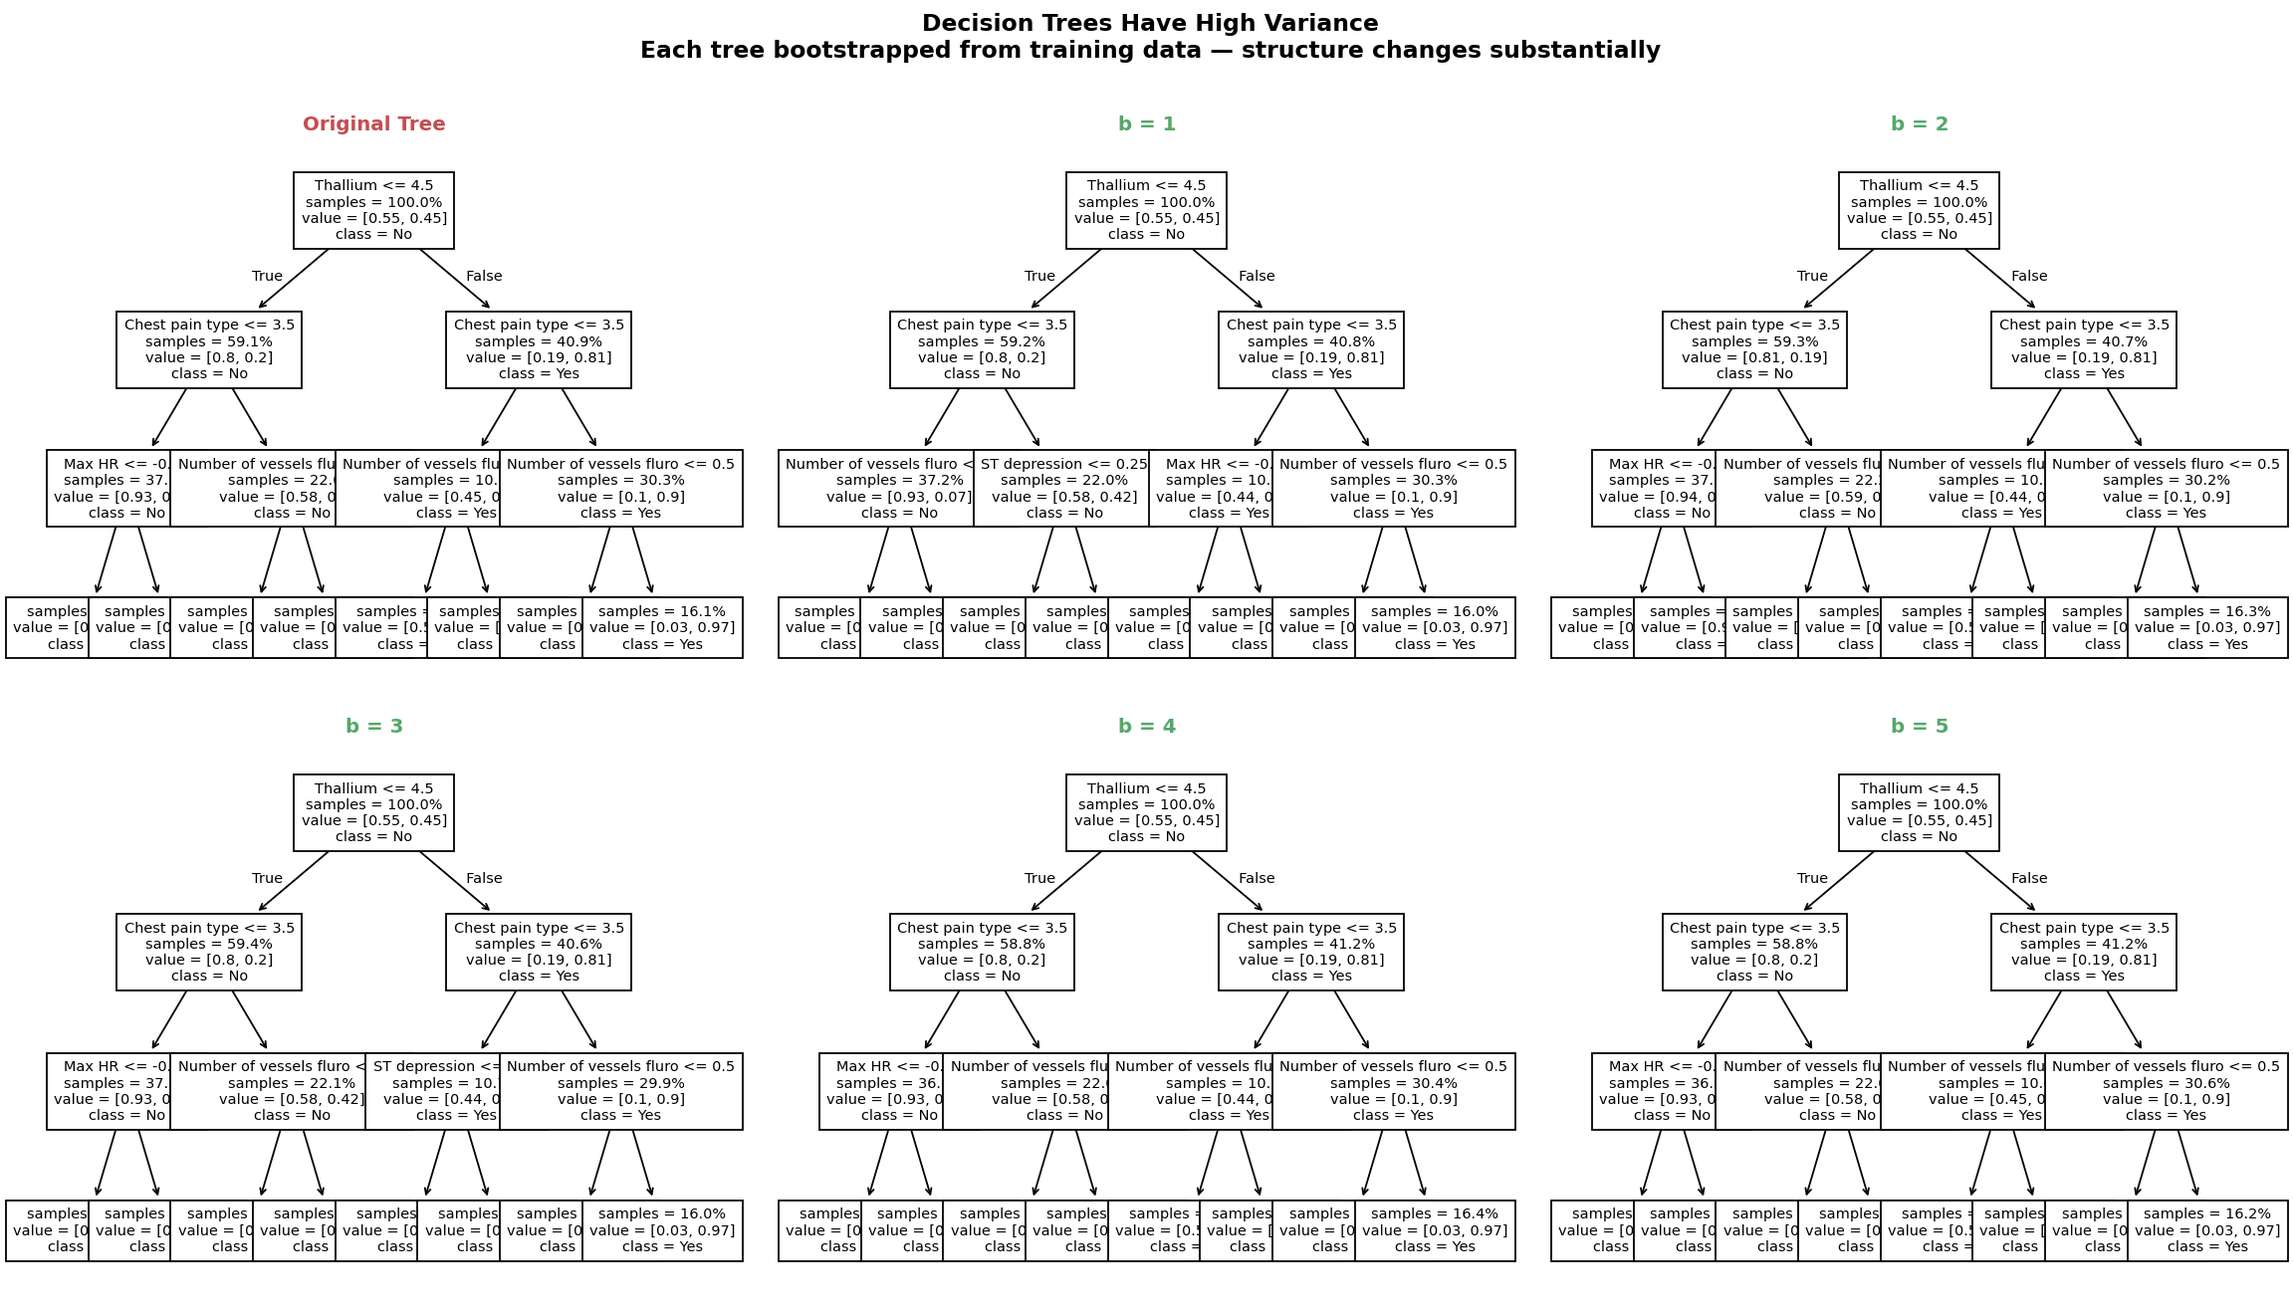
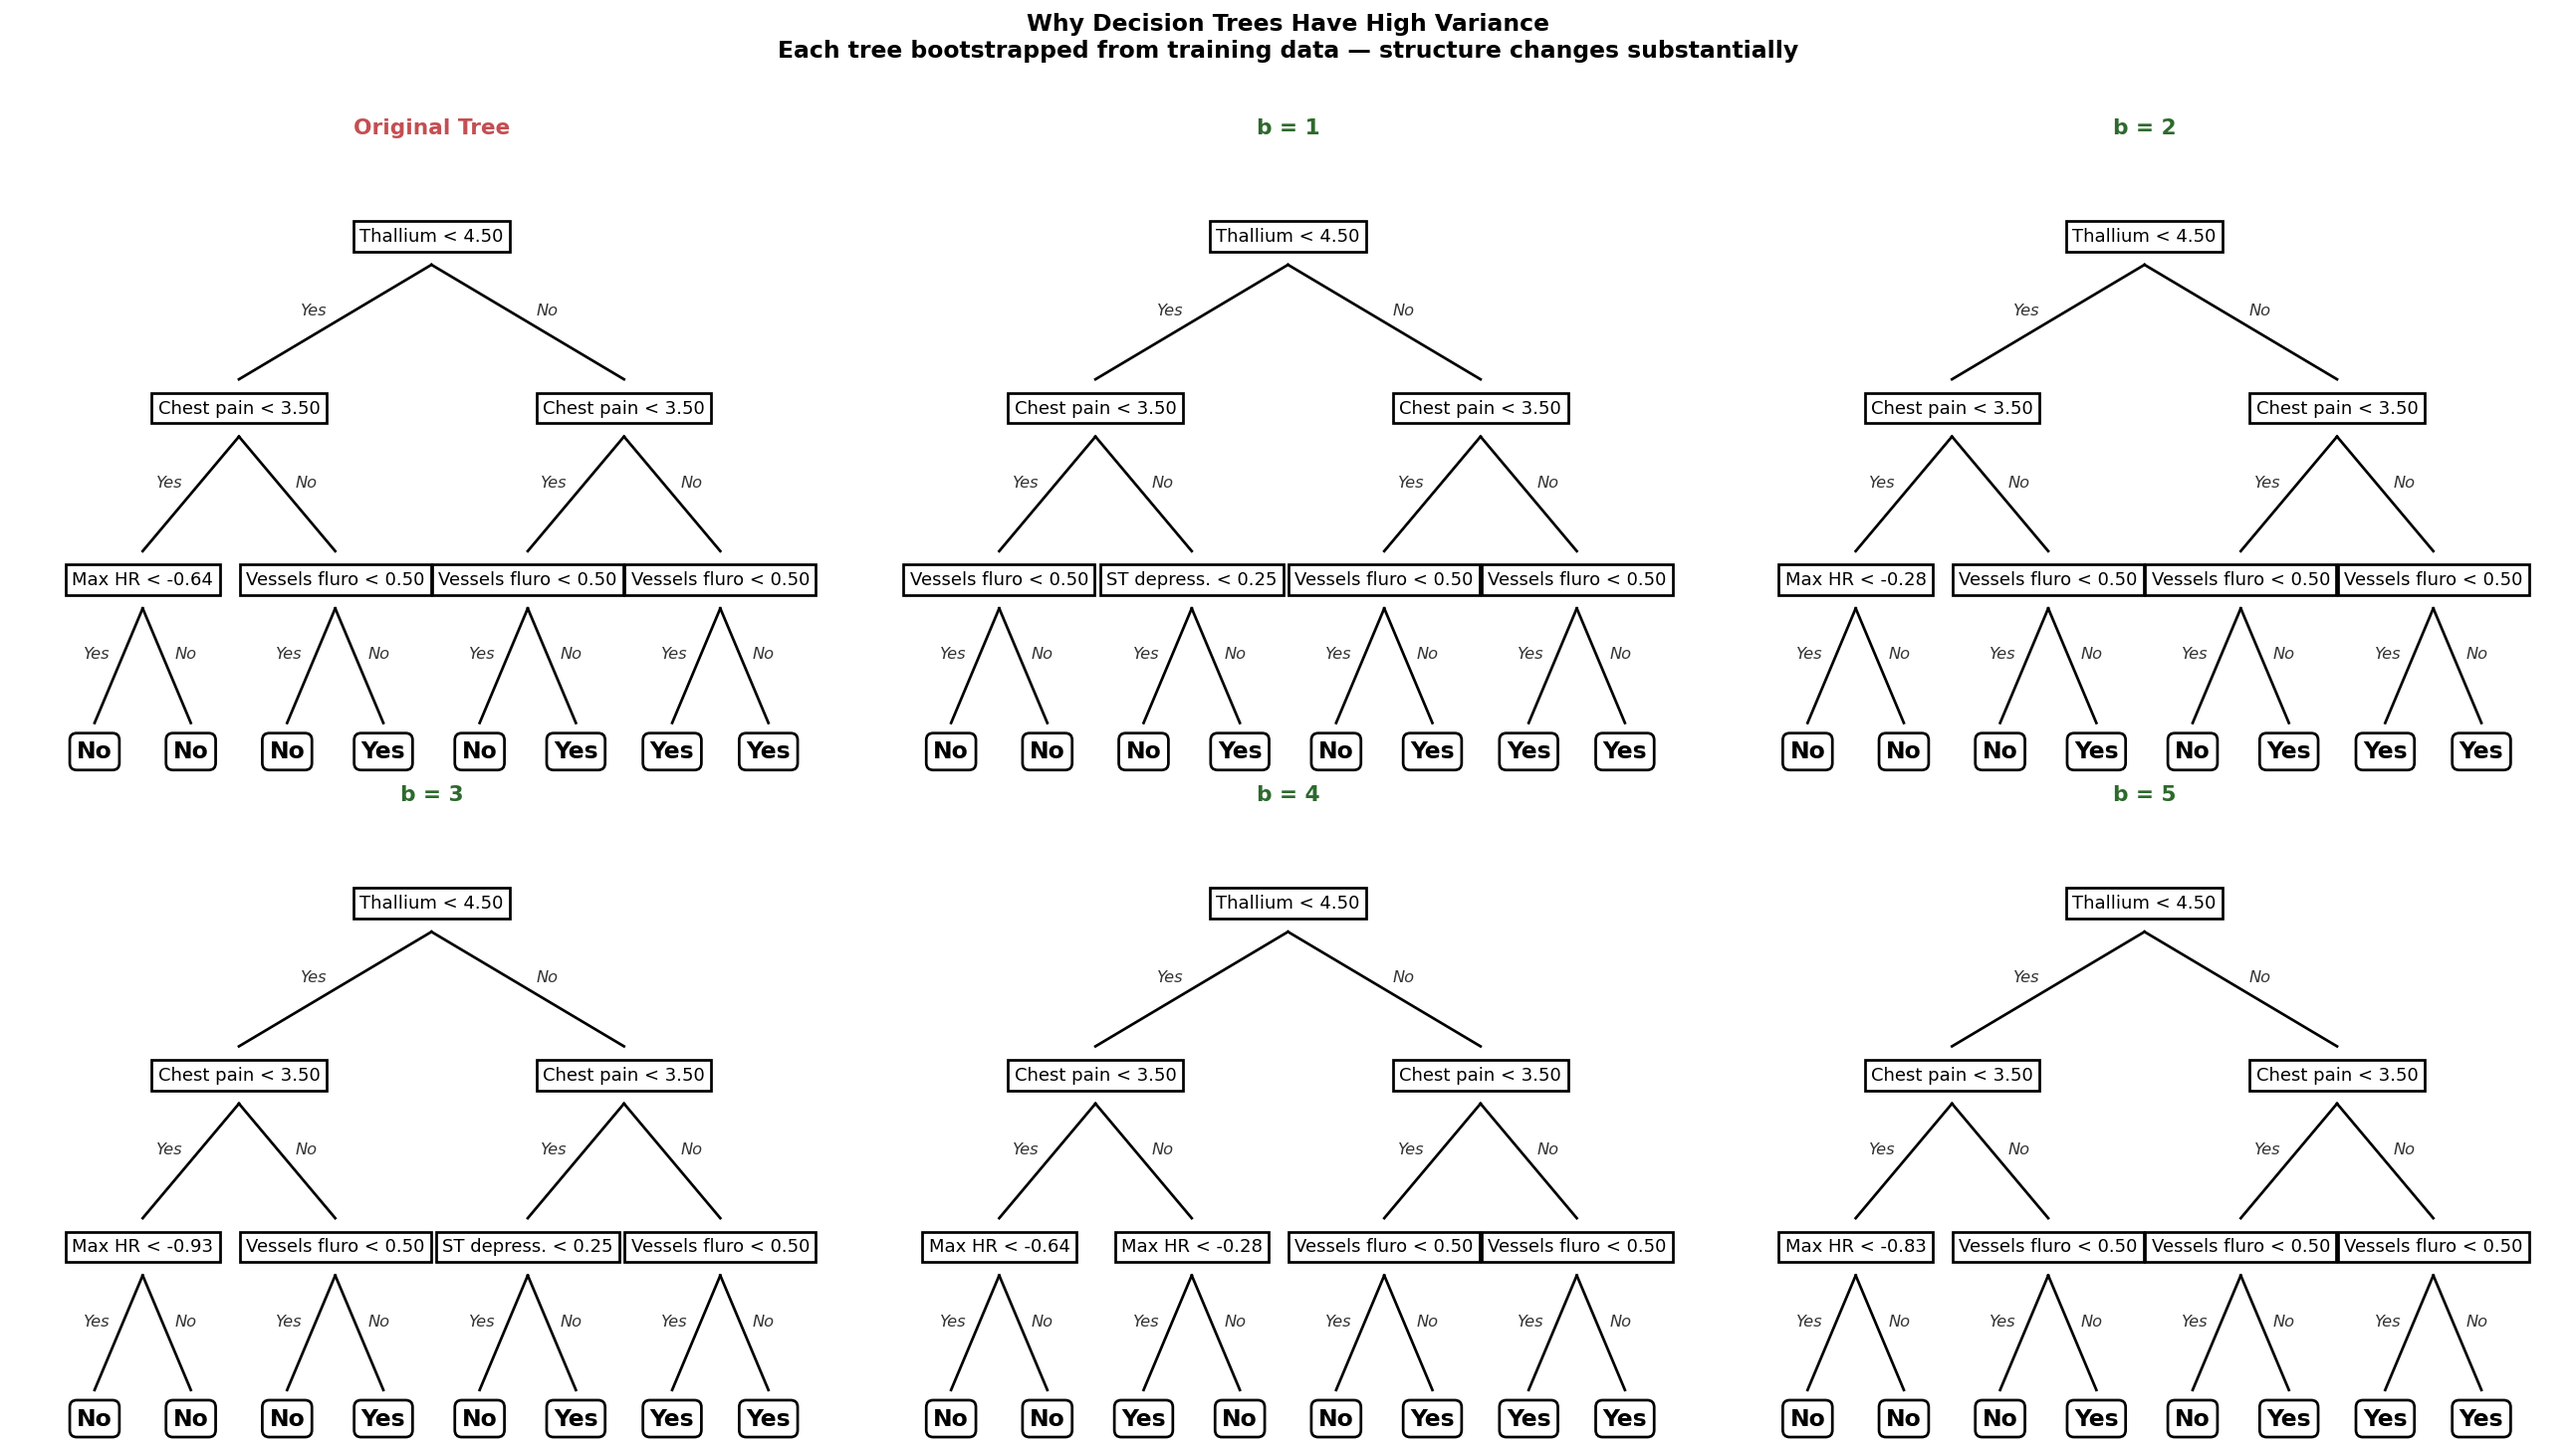
Lecture-style decision tree: clean, readable, minimal text

Changed region(s): [[0.0, 0.5906, 1.0, 1.0], [0.0, 0.0622, 1.0, 0.5595], [0.2775, 0.0, 0.7399, 0.0622]]

diff --git a/src/decision_tree_lecture_style.py b/src/decision_tree_lecture_style.py
@@ -1,0 +1,113 @@
+import pandas as pd
+import numpy as np
+import matplotlib
+matplotlib.use('Agg')
+import matplotlib.pyplot as plt
+from pathlib import Path
+from sklearn.tree import DecisionTreeClassifier
+from sklearn.tree._classes import DecisionTreeClassifier as DTC
+import matplotlib.patches as mpatches
+
+FIGURES_DIR = Path("figures")
+FIGURES_DIR.mkdir(parents=True, exist_ok=True)
+
+X_train = pd.read_csv('data/preprocessed/X_train_lasso.csv')
+X_test  = pd.read_csv('data/preprocessed/X_test_lasso.csv')
+y_train = pd.read_csv('data/preprocessed/y_train.csv')['Heart Disease']
+
+top6 = ['Thallium', 'Chest pain type', 'Number of vessels fluro',
+        'ST depression', 'Max HR', 'Exercise angina']
+top6 = [f for f in top6 if f in X_train.columns]
+
+dt = DecisionTreeClassifier(max_depth=3, min_samples_leaf=1000,
+                             criterion='gini', random_state=42)
+dt.fit(X_train[top6], y_train)
+
+from sklearn.tree import _tree
+
+def draw_tree(ax, tree, feature_names, node=0,
+              x=0.5, y=1.0, dx=0.25, dy=0.18, depth=0):
+    """Recursively draw a clean lecture-style tree."""
+    left  = tree.children_left[node]
+    right = tree.children_right[node]
+    is_leaf = left == _tree.TREE_LEAF
+
+    if is_leaf:
+        class_idx = np.argmax(tree.value[node][0])
+        label = "Yes" if class_idx == 1 else "No"
+        ax.text(x, y, label, ha='center', va='center', fontsize=13,
+                fontweight='bold',
+                bbox=dict(boxstyle='round,pad=0.3', fc='white', ec='black', lw=1.5))
+    else:
+        feat  = feature_names[tree.feature[node]]
+        thresh = tree.threshold[node]
+        # shorten long feature names
+        short = {'Number of vessels fluro': 'Vessels fluro',
+                 'Chest pain type': 'Chest pain',
+                 'Exercise angina': 'Ex. angina',
+                 'ST depression': 'ST depress.',
+                 'Max HR': 'Max HR',
+                 'Thallium': 'Thallium'}
+        label = f"{short.get(feat, feat)} < {thresh:.2f}"
+        ax.text(x, y, label, ha='center', va='center', fontsize=10,
+                bbox=dict(boxstyle='square,pad=0.35', fc='white', ec='black', lw=1.5))
+
+        x_left  = x - dx
+        x_right = x + dx
+        y_child = y - dy
+
+        # draw lines
+        ax.plot([x, x_left],  [y - 0.025, y_child + 0.025], 'k-', lw=1.5)
+        ax.plot([x, x_right], [y - 0.025, y_child + 0.025], 'k-', lw=1.5)
+
+        # Yes / No branch labels
+        ax.text((x + x_left)/2  - 0.01, y - dy/2 + 0.01, 'Yes',
+                ha='right', va='center', fontsize=9, color='#333333', style='italic')
+        ax.text((x + x_right)/2 + 0.01, y - dy/2 + 0.01, 'No',
+                ha='left',  va='center', fontsize=9, color='#333333', style='italic')
+
+        draw_tree(ax, tree, feature_names, left,  x_left,  y_child, dx/2, dy, depth+1)
+        draw_tree(ax, tree, feature_names, right, x_right, y_child, dx/2, dy, depth+1)
+
+# ── FIGURE 1: clean single tree ──────────────────────────────────
+fig, ax = plt.subplots(figsize=(16, 8))
+ax.set_xlim(0, 1)
+ax.set_ylim(0.55, 1.08)
+ax.axis('off')
+draw_tree(ax, dt.tree_, top6, dx=0.23, dy=0.15)
+ax.set_title('Decision Tree — Heart Disease Classification\n(depth=3, CV-pruned, top 6 features)',
+             fontsize=14, fontweight='bold', pad=10)
+plt.tight_layout()
+plt.savefig(FIGURES_DIR / 'decision_tree_lecture.png', dpi=150,
+            bbox_inches='tight', facecolor='white')
+plt.close()
+print("  ✔ figures/decision_tree_lecture.png")
+
+# ── FIGURE 2: high variance demo — 1 original + 5 bootstrap ──────
+from sklearn.utils import resample
+
+fig, axes = plt.subplots(2, 3, figsize=(20, 11))
+axes = axes.flatten()
+
+datasets = [(X_train[top6], y_train, 'Original Tree', '#C44E52')]
+for i in range(1, 6):
+    Xb, yb = resample(X_train[top6], y_train, random_state=i, n_samples=60000)
+    datasets.append((Xb, yb, f'b = {i}', '#2d6a2d'))
+
+for ax, (Xb, yb, title, color) in zip(axes, datasets):
+    dt_b = DecisionTreeClassifier(max_depth=3, min_samples_leaf=500,
+                                   criterion='gini', random_state=42)
+    dt_b.fit(Xb, yb)
+    ax.set_xlim(0, 1); ax.set_ylim(0.55, 1.08); ax.axis('off')
+    draw_tree(ax, dt_b.tree_, top6, dx=0.23, dy=0.15)
+    ax.set_title(title, fontsize=12, fontweight='bold', color=color, pad=6)
+
+fig.suptitle('Why Decision Trees Have High Variance\n'
+             'Each tree bootstrapped from training data — structure changes substantially',
+             fontsize=13, fontweight='bold', y=1.01)
+plt.tight_layout()
+plt.savefig(FIGURES_DIR / 'decision_tree_variance.png', dpi=130,
+            bbox_inches='tight', facecolor='white')
+plt.close()
+print("  ✔ figures/decision_tree_variance.png")
+print("\n  Done.")
